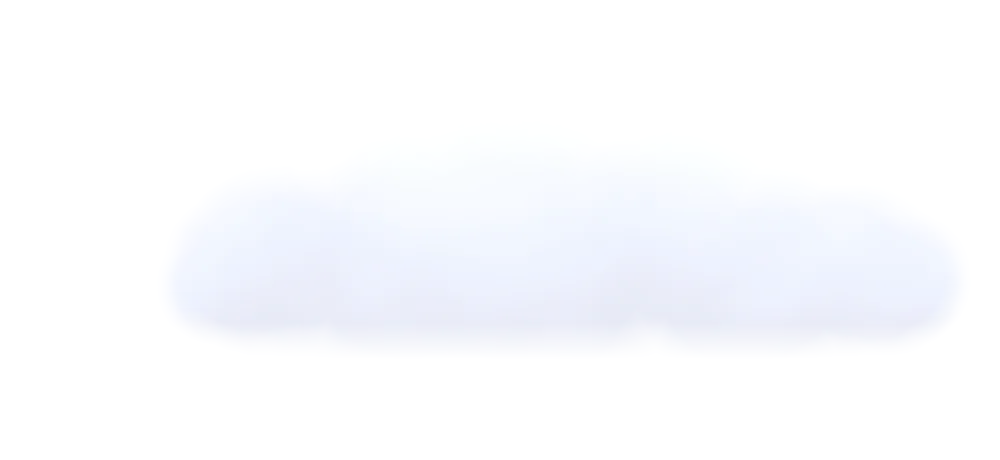
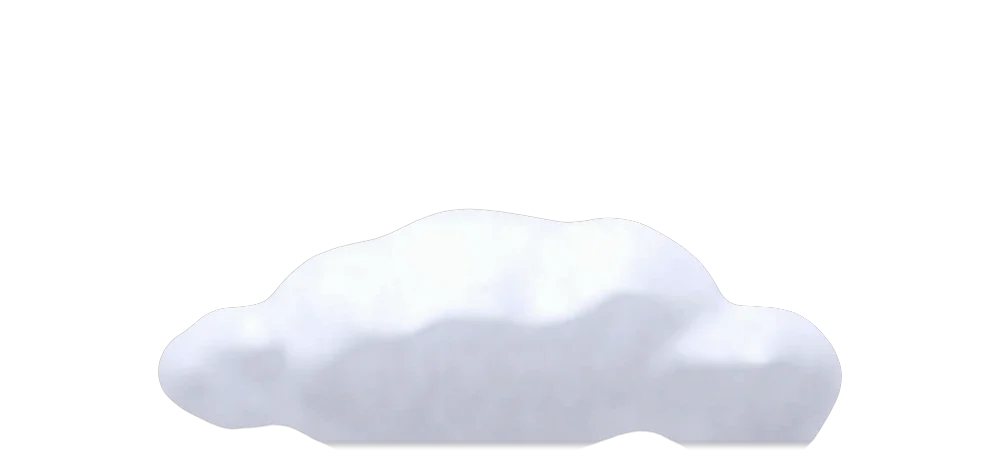
XBASE-Entwurf: Glas-Design, klare Wolken, Slogan mit Auftritt, PC-Layout (Flugzeugfoto, About-Fotos, Referenzkarte), Footer-Button-Fix
Claude-Session: https://claude.ai/code/session_01WS1E1cskWG4amAw1bvVYAm

Changed region(s): [[0.155, 0.6391, 0.868, 0.9739]]

diff --git a/kunden/xbase-aero/seite/index.html b/kunden/xbase-aero/seite/index.html
@@ -14,7 +14,7 @@
   --sans:"Inter",system-ui,-apple-system,"Segoe UI",Roboto,sans-serif;--head:"Outfit","Inter",system-ui,sans-serif;--mono:"Space Mono",ui-monospace,Menlo,Consolas,monospace;--navh:76px}
 *,*::before,*::after{box-sizing:border-box}
 html{scroll-behavior:smooth;scroll-padding-top:calc(var(--navh) + 12px)}
-body{margin:0;background:var(--bg);color:var(--ink);font:400 17px/1.62 var(--sans);-webkit-font-smoothing:antialiased;overflow-x:clip}
+body{margin:0;background:#eef4fc;color:var(--ink);font:400 17px/1.62 var(--sans);-webkit-font-smoothing:antialiased;overflow-x:clip}
 img,svg{display:block;max-width:100%}
 a{color:inherit}
 p{margin:0}
@@ -349,9 +349,11 @@ h1,h2,h3{margin:0;font-family:var(--head);font-weight:600;line-height:1.04;lette
 .foot__cta .hero__cta{margin-top:0}
 .foot__cta .btn--l{background:rgba(255,255,255,.1);border-color:rgba(255,255,255,.25);color:#fff}
 .foot__cta .btn--l:hover{background:rgba(255,255,255,.18)}
-.foot__cta .btn--w{background:#fff;color:var(--ink)}
+.foot__cta .btn--w,.foot__cta .btn--w:hover,.foot__cta .btn--w:focus,.foot__cta .btn--w:active{background:#fff;color:var(--ink)}
+.foot__cta .btn--w:hover{transform:translateY(-2px);box-shadow:0 14px 30px -14px rgba(0,0,0,.6)}
 @media (max-width:960px){
   .about__pics{grid-template-columns:1fr;gap:14px}
+  .about__pics img{height:auto}
   .about__pics img:first-child,.about__pics img:last-child{aspect-ratio:4/3;object-position:50% 50%;margin:0}
 }
 @media (max-width:600px){
@@ -381,6 +383,96 @@ h1,h2,h3{margin:0;font-family:var(--head);font-weight:600;line-height:1.04;lette
   .foot__top{gap:30px}
   .foot__bot{flex-direction:column;gap:8px;padding-bottom:64px;line-height:1.5}
 }
+@media (min-width:961px){#services{padding-top:56px}}
+@media (min-width:1400px){
+  .wrap{width:min(1600px,100% - 120px)}
+  .hero .wrap{gap:24px}
+  .hero{padding-bottom:30px}
+  #services{padding-top:40px}
+  .cards--7{gap:20px}
+  .hero h1{font-size:clamp(66px,4.3vw,92px)}
+  .hero .lead{font-size:clamp(20px,1.2vw,23px);max-width:36em}
+  .hero__tag{font-size:15px;padding:10px 16px 10px 12px}
+  .hero__cta .btn{min-height:60px;padding:0 32px;font-size:17px}
+  .hero__facts{max-width:720px}
+  .hero__facts b{font-size:26px}
+  .plan{max-width:860px;justify-self:center}
+  .chip{font-size:15px;padding:12px 16px}
+}
+
+/* Referenz als eine Karte mit Strecke */
+.refcard{display:grid;grid-template-columns:.85fr 1.15fr;margin-top:48px;background:#fff;border:1px solid var(--line);border-radius:32px;overflow:hidden;box-shadow:0 40px 80px -60px rgba(10,26,51,.5)}
+.refcard__logo{display:grid;place-items:center;padding:clamp(36px,5vw,72px);background:radial-gradient(80% 90% at 30% 20%,rgba(0,184,255,.12),transparent 70%),linear-gradient(160deg,#f7faff,#eaf2fd);border-right:1px solid var(--line)}
+.refcard__logo img{width:min(340px,86%);height:auto}
+.refcard__txt{padding:clamp(32px,4.4vw,64px);display:flex;flex-direction:column;justify-content:center}
+.refcard__txt small{font:400 12px/1.4 var(--mono);letter-spacing:.1em;text-transform:uppercase;color:var(--blue)}
+.refcard__txt p{font:500 clamp(22px,2.1vw,32px)/1.25 var(--head);letter-spacing:-.02em;margin-top:14px;max-width:24ch}
+.route{display:flex;align-items:center;gap:18px;margin-top:34px}
+.route b{font:600 30px/1 var(--head);letter-spacing:-.02em;color:var(--ink)}
+.route i{display:block;font:400 11px/1.3 var(--mono);font-style:normal;letter-spacing:.06em;text-transform:uppercase;color:var(--mut);margin-top:6px}
+.route__l{flex:1;position:relative;height:2px;background:repeating-linear-gradient(90deg,var(--blue) 0 8px,transparent 8px 14px);opacity:.75}
+.route__l svg{position:absolute;top:50%;left:0;width:26px;height:26px;color:var(--blue);transform:translate(-50%,-50%) rotate(90deg);animation:route 6s cubic-bezier(.45,0,.55,1) infinite;background:#fff;border-radius:50%;padding:2px}
+@keyframes route{0%{left:4%}50%{left:96%}50.01%{left:96%;transform:translate(-50%,-50%) rotate(-90deg)}100%{left:4%;transform:translate(-50%,-50%) rotate(-90deg)}}
+@media (max-width:760px){.refcard{grid-template-columns:1fr}.refcard__logo{border-right:0;border-bottom:1px solid var(--line);padding:36px}.route b{font-size:24px}.route i{max-width:12ch}}
+@media (prefers-reduced-motion:reduce){.route__l svg{animation:none;left:50%}}
+
+/* PC: Bildband als Karte, Flugzeug ganz sichtbar */
+@media (min-width:961px){
+  .band{width:min(1240px,100% - 40px);margin-inline:auto;min-height:0;aspect-ratio:2/1;border-radius:32px;box-shadow:0 50px 90px -60px rgba(6,22,50,.7)}
+  .band img{object-position:50% 40%}
+  .band::after{background:linear-gradient(200deg,rgba(6,22,50,0) 55%,rgba(6,22,50,.6))}
+  .band .wrap{width:auto;margin:0;padding:0 clamp(28px,3.4vw,56px) clamp(26px,3vw,48px);display:block;text-align:left}
+  .band p{font-size:clamp(28px,2.6vw,44px);max-width:15ch}
+  .about__pics{display:block;position:relative;padding-bottom:22%}
+  .about__pics img{height:auto}
+  .about__pics img:first-child{width:86%;aspect-ratio:4/3;object-position:50% 50%}
+  .about__pics img:last-child{position:absolute;right:0;bottom:0;width:56%;aspect-ratio:4/3;margin:0;border:6px solid var(--bg);border-radius:26px;box-shadow:0 40px 70px -30px rgba(10,26,51,.6)}
+  .hero{min-height:0;padding-bottom:40px}
+  .sky{-webkit-mask-image:linear-gradient(90deg,rgba(0,0,0,.4),rgba(0,0,0,.4) 42%,#000 62%),linear-gradient(180deg,#000 72%,transparent 98%);mask-image:linear-gradient(90deg,rgba(0,0,0,.4),rgba(0,0,0,.4) 42%,#000 62%),linear-gradient(180deg,#000 72%,transparent 98%);-webkit-mask-composite:source-in;mask-composite:intersect}
+}
+@media (min-width:1400px){.band{width:min(1600px,100% - 120px)}}
+
+/* Glas-Design */
+:root{--glass:linear-gradient(150deg,rgba(255,255,255,.82),rgba(255,255,255,.46));--glass-b:rgba(255,255,255,.85);--glass-s:inset 0 1px 0 rgba(255,255,255,.95),0 1px 2px rgba(10,40,90,.04),0 26px 50px -32px rgba(10,40,90,.38)}
+body::before{content:"";position:fixed;inset:0;z-index:-1;pointer-events:none;background:
+  radial-gradient(38% 32% at 8% 18%,rgba(0,184,255,.20),transparent 70%),
+  radial-gradient(34% 30% at 92% 42%,rgba(10,108,240,.15),transparent 70%),
+  radial-gradient(46% 38% at 38% 100%,rgba(111,208,255,.24),transparent 70%),
+  linear-gradient(180deg,#f1f6fd,#e8f1fc)}
+.card:not(.card--cta),.vals div,.person,.job__main,.job__item,.refcard,.cbox--f,.who span,.tabs{background:var(--glass);border:1px solid var(--glass-b);box-shadow:var(--glass-s);-webkit-backdrop-filter:blur(16px) saturate(160%);backdrop-filter:blur(16px) saturate(160%)}
+.card:not(.card--cta):hover,.job__item:hover{border-color:rgba(10,108,240,.35);box-shadow:inset 0 1px 0 #fff,0 34px 60px -34px rgba(10,60,140,.5)}
+.card__i{background:linear-gradient(140deg,rgba(0,184,255,.18),rgba(11,63,168,.14));box-shadow:inset 0 1px 0 rgba(255,255,255,.8),0 8px 18px -10px rgba(10,108,240,.5)}
+.refcard__logo{background:radial-gradient(80% 90% at 30% 20%,rgba(0,184,255,.14),transparent 70%),rgba(255,255,255,.35);border-right-color:var(--glass-b)}
+.form input,.form select,.form textarea{background:rgba(255,255,255,.6);border:1px solid rgba(10,26,51,.12);box-shadow:inset 0 1px 2px rgba(10,26,51,.06),0 1px 0 rgba(255,255,255,.9)}
+.form input:hover,.form select:hover,.form textarea:hover{border-color:rgba(10,108,240,.35)}
+.form input:focus,.form select:focus,.form textarea:focus{background:#fff;border-color:var(--blue);box-shadow:0 0 0 4px rgba(10,108,240,.14)}
+.seg button{background:rgba(255,255,255,.65);border-color:rgba(10,26,51,.12);box-shadow:inset 0 1px 0 #fff}
+.seg button:hover{border-color:rgba(10,108,240,.4)}
+.seg button[aria-pressed="true"],.tabs button[aria-selected="true"]{background:var(--grad);border-color:transparent;color:#fff;box-shadow:0 10px 24px -12px rgba(10,108,240,.9)}
+.btn--l{background:rgba(255,255,255,.55);border-color:var(--glass-b);box-shadow:inset 0 1px 0 #fff,0 12px 26px -18px rgba(10,40,90,.5);-webkit-backdrop-filter:blur(12px);backdrop-filter:blur(12px)}
+.hero__tag{background:rgba(255,255,255,.6);border-color:var(--glass-b);-webkit-backdrop-filter:blur(12px);backdrop-filter:blur(12px)}
+.avatar{box-shadow:inset 0 1px 0 rgba(255,255,255,.4),0 14px 28px -14px rgba(10,108,240,.8)}
+.cbox--d{background:radial-gradient(70% 60% at 100% 100%,rgba(0,176,255,.28),transparent 70%),linear-gradient(160deg,#0b2147,#061632);border:1px solid rgba(111,208,255,.16);box-shadow:inset 0 1px 0 rgba(255,255,255,.08),0 40px 70px -40px rgba(6,22,50,.8)}
+.stats{background:rgba(255,255,255,.05);border-color:rgba(255,255,255,.14);box-shadow:inset 0 1px 0 rgba(255,255,255,.1);-webkit-backdrop-filter:blur(10px);backdrop-filter:blur(10px)}
+.hero::after{display:none}
+.hero{background:linear-gradient(180deg,#5aaef6 0%,#8fcbfb 36%,#cde9ff 68%,rgba(225,238,252,.6) 88%,rgba(238,244,252,0) 100%)}
+
+/* Slogan mit Auftritt */
+.hero h1 .l1,.hero h1 .l2{display:block;animation:rise 1s cubic-bezier(.2,.8,.2,1) both}
+.hero h1 .l1{background:linear-gradient(100deg,#061632 20%,#0b3fa8 60%,#061632 90%);background-size:220% 100%;-webkit-background-clip:text;background-clip:text;color:transparent;animation:rise 1s cubic-bezier(.2,.8,.2,1) both,sheen 9s 1.6s ease-in-out infinite}
+.hero h1 .l2{animation-delay:.18s;filter:drop-shadow(0 10px 28px rgba(10,108,240,.35))}
+@keyframes rise{from{opacity:0;transform:translateY(.45em);filter:blur(10px)}to{opacity:1;transform:none}}
+.hero h1 .l2 .g,.xp b{background-image:linear-gradient(100deg,#00b8ff 0%,#0a6cf0 30%,#3fc4ff 45%,#0a6cf0 60%,#0b3fa8 100%);background-size:250% 100%;animation:sheen 6s 1.2s ease-in-out infinite}
+@keyframes sheen{0%,100%{background-position:100% 0}50%{background-position:0 0}}
+.xp b{text-shadow:none;filter:drop-shadow(0 0 18px rgba(0,184,255,.55))}
+.xp__fly{position:absolute;right:-.5em;bottom:.02em;width:.42em;height:.42em;color:#0a6cf0;opacity:0;transform:translate(-40%,30%) rotate(70deg) scale(.6);animation:flyin .9s 1.7s cubic-bezier(.2,.8,.2,1) forwards,bob 3.2s 2.6s ease-in-out infinite}
+.xp__fly svg{width:100%;height:100%;filter:drop-shadow(0 4px 8px rgba(10,108,240,.5))}
+@keyframes flyin{to{opacity:1;transform:translate(0,0) rotate(70deg) scale(1)}}
+@keyframes bob{0%,100%{translate:0 0}50%{translate:0 -.06em}}
+.hero h1 .l2{white-space:nowrap}
+.sky img{opacity:.96!important;filter:none!important}
+@media (max-width:960px){.sky{-webkit-mask-image:linear-gradient(180deg,rgba(0,0,0,.45),rgba(0,0,0,.45) 55%,#000 70%,#000 88%,transparent 99%);mask-image:linear-gradient(180deg,rgba(0,0,0,.45),rgba(0,0,0,.45) 55%,#000 70%,#000 88%,transparent 99%)}}
+@media (prefers-reduced-motion:reduce){.hero h1 .l1,.hero h1 .l2{animation:none}.xp__fly{opacity:1;transform:rotate(70deg)}}
 </style>
 </head>
 <body>
@@ -404,16 +496,16 @@ h1,h2,h3{margin:0;font-family:var(--head);font-weight:600;line-height:1.04;lette
 <main id="top">
 <section class="hero">
   <div class="sky" aria-hidden="true">
-    <img class="c1" src="assets/img/wolke-1.webp" width="1400" height="560" alt="">
-    <img class="c4" src="assets/img/wolke-2.webp" width="1000" height="460" alt="">
-    <img class="c2" src="assets/img/wolke-2.webp" width="1000" height="460" alt="">
-    <img class="c3" src="assets/img/wolke-3.webp" width="1600" height="420" alt="">
-    <img class="c5" src="assets/img/wolke-1.webp" width="1400" height="560" alt="">
+    <img class="c1" src="assets/img/wolke-1.webp?v=2" width="1400" height="560" alt="">
+    <img class="c4" src="assets/img/wolke-2.webp?v=2" width="1000" height="460" alt="">
+    <img class="c2" src="assets/img/wolke-2.webp?v=2" width="1000" height="460" alt="">
+    <img class="c3" src="assets/img/wolke-3.webp?v=2" width="1600" height="420" alt="">
+    <img class="c5" src="assets/img/wolke-1.webp?v=2" width="1400" height="560" alt="">
   </div>
   <div class="wrap">
     <div>
       <span class="hero__tag"><i></i>Based at Vienna International Airport</span>
-      <h1>Best Aviation Services <span class="l2"><span class="g">Delivered by</span> <span class="xp"><b>X</b><span class="g">perts.</span><svg viewBox="0 0 300 24" preserveAspectRatio="none" aria-hidden="true"><path pathLength="1" d="M4 18 C 90 4, 200 2, 296 10"/></svg></span></span></h1>
+      <h1><span class="l1">Best Aviation Services</span> <span class="l2"><span class="g">Delivered by</span> <span class="xp"><b>X</b><span class="g">perts.</span><svg viewBox="0 0 300 24" preserveAspectRatio="none" aria-hidden="true"><path pathLength="1" d="M4 18 C 90 4, 200 2, 296 10"/></svg><i class="xp__fly" aria-hidden="true"><svg viewBox="0 0 24 24" fill="currentColor"><path d="M21 16v-2l-8-5V3.5a1.5 1.5 0 0 0-3 0V9l-8 5v2l8-2.5V19l-2 1.5V22l3.5-1 3.5 1v-1.5L13 19v-5.5z"/></svg></i></span></span></h1>
       <p class="lead">XBASE Aero supports airlines, CAMOs, maintenance organisations and operators with engineering, compliance, materials and qualified aviation professionals. One partner, one point of contact.</p>
       <div class="hero__cta">
         <a class="btn btn--p" href="#contact">Get in touch <svg viewBox="0 0 24 24" fill="none" stroke="currentColor" stroke-width="2.2" stroke-linecap="round" stroke-linejoin="round"><path d="M5 12h14M13 6l6 6-6 6"/></svg></a>
@@ -566,7 +658,7 @@ h1,h2,h3{margin:0;font-family:var(--head);font-weight:600;line-height:1.04;lette
         </div>
       </div>
       <div class="about__pics rv">
-        <img src="assets/img/cockpit-800.webp" srcset="assets/img/cockpit-800.webp 800w, assets/img/cockpit.webp 1600w" sizes="(max-width:960px) 100vw, 28vw" width="800" height="600" alt="Cockpit overhead panel" loading="lazy">
+        <img src="assets/img/cockpit-800.webp" srcset="assets/img/cockpit-800.webp 800w, assets/img/cockpit.webp 1600w" sizes="(max-width:960px) 100vw, 40vw" width="800" height="600" alt="Cockpit overhead panel" loading="lazy">
         <img src="assets/img/triebwerk-800.webp" srcset="assets/img/triebwerk-800.webp 800w, assets/img/triebwerk.webp 1600w" sizes="(max-width:960px) 100vw, 22vw" width="800" height="600" alt="Aircraft engine on the apron" loading="lazy">
       </div>
     </div>
@@ -586,9 +678,13 @@ h1,h2,h3{margin:0;font-family:var(--head);font-weight:600;line-height:1.04;lette
   <div class="wrap">
     <span class="k rv">References</span>
     <h2 class="h2 rv">Trusted <span class="g">in the industry.</span></h2>
-    <div class="refs">
-      <div class="ref rv"><img src="assets/img/peoples-logo.webp" width="700" height="302" alt="People's Airline"></div>
-      <div class="ref__txt rv"><q>People's, the airline connecting Vienna and St. Gallen-Altenrhein, works with XBASE Aero.</q><small>Reference customer · Airline</small></div>
+    <div class="refcard rv">
+      <div class="refcard__logo"><img src="assets/img/peoples-logo.webp" width="700" height="302" alt="People's Airline"></div>
+      <div class="refcard__txt">
+        <small>Reference customer · Airline</small>
+        <p>People's, the airline connecting Vienna and St. Gallen-Altenrhein, works with XBASE Aero.</p>
+        <div class="route" aria-hidden="true"><b>VIE<i>Vienna</i></b><span class="route__l"><svg viewBox="0 0 24 24" fill="currentColor"><path d="M21 16v-2l-8-5V3.5a1.5 1.5 0 0 0-3 0V9l-8 5v2l8-2.5V19l-2 1.5V22l3.5-1 3.5 1v-1.5L13 19v-5.5z"/></svg></span><b>ACH<i>St. Gallen-Altenrhein</i></b></div>
+      </div>
     </div>
   </div>
 </section>

diff --git a/webdesign/demo/xbase/index.php b/webdesign/demo/xbase/index.php
@@ -14,7 +14,7 @@
   --sans:"Inter",system-ui,-apple-system,"Segoe UI",Roboto,sans-serif;--head:"Outfit","Inter",system-ui,sans-serif;--mono:"Space Mono",ui-monospace,Menlo,Consolas,monospace;--navh:76px}
 *,*::before,*::after{box-sizing:border-box}
 html{scroll-behavior:smooth;scroll-padding-top:calc(var(--navh) + 12px)}
-body{margin:0;background:var(--bg);color:var(--ink);font:400 17px/1.62 var(--sans);-webkit-font-smoothing:antialiased;overflow-x:clip}
+body{margin:0;background:#eef4fc;color:var(--ink);font:400 17px/1.62 var(--sans);-webkit-font-smoothing:antialiased;overflow-x:clip}
 img,svg{display:block;max-width:100%}
 a{color:inherit}
 p{margin:0}
@@ -349,9 +349,11 @@ h1,h2,h3{margin:0;font-family:var(--head);font-weight:600;line-height:1.04;lette
 .foot__cta .hero__cta{margin-top:0}
 .foot__cta .btn--l{background:rgba(255,255,255,.1);border-color:rgba(255,255,255,.25);color:#fff}
 .foot__cta .btn--l:hover{background:rgba(255,255,255,.18)}
-.foot__cta .btn--w{background:#fff;color:var(--ink)}
+.foot__cta .btn--w,.foot__cta .btn--w:hover,.foot__cta .btn--w:focus,.foot__cta .btn--w:active{background:#fff;color:var(--ink)}
+.foot__cta .btn--w:hover{transform:translateY(-2px);box-shadow:0 14px 30px -14px rgba(0,0,0,.6)}
 @media (max-width:960px){
   .about__pics{grid-template-columns:1fr;gap:14px}
+  .about__pics img{height:auto}
   .about__pics img:first-child,.about__pics img:last-child{aspect-ratio:4/3;object-position:50% 50%;margin:0}
 }
 @media (max-width:600px){
@@ -381,6 +383,96 @@ h1,h2,h3{margin:0;font-family:var(--head);font-weight:600;line-height:1.04;lette
   .foot__top{gap:30px}
   .foot__bot{flex-direction:column;gap:8px;padding-bottom:64px;line-height:1.5}
 }
+@media (min-width:961px){#services{padding-top:56px}}
+@media (min-width:1400px){
+  .wrap{width:min(1600px,100% - 120px)}
+  .hero .wrap{gap:24px}
+  .hero{padding-bottom:30px}
+  #services{padding-top:40px}
+  .cards--7{gap:20px}
+  .hero h1{font-size:clamp(66px,4.3vw,92px)}
+  .hero .lead{font-size:clamp(20px,1.2vw,23px);max-width:36em}
+  .hero__tag{font-size:15px;padding:10px 16px 10px 12px}
+  .hero__cta .btn{min-height:60px;padding:0 32px;font-size:17px}
+  .hero__facts{max-width:720px}
+  .hero__facts b{font-size:26px}
+  .plan{max-width:860px;justify-self:center}
+  .chip{font-size:15px;padding:12px 16px}
+}
+
+/* Referenz als eine Karte mit Strecke */
+.refcard{display:grid;grid-template-columns:.85fr 1.15fr;margin-top:48px;background:#fff;border:1px solid var(--line);border-radius:32px;overflow:hidden;box-shadow:0 40px 80px -60px rgba(10,26,51,.5)}
+.refcard__logo{display:grid;place-items:center;padding:clamp(36px,5vw,72px);background:radial-gradient(80% 90% at 30% 20%,rgba(0,184,255,.12),transparent 70%),linear-gradient(160deg,#f7faff,#eaf2fd);border-right:1px solid var(--line)}
+.refcard__logo img{width:min(340px,86%);height:auto}
+.refcard__txt{padding:clamp(32px,4.4vw,64px);display:flex;flex-direction:column;justify-content:center}
+.refcard__txt small{font:400 12px/1.4 var(--mono);letter-spacing:.1em;text-transform:uppercase;color:var(--blue)}
+.refcard__txt p{font:500 clamp(22px,2.1vw,32px)/1.25 var(--head);letter-spacing:-.02em;margin-top:14px;max-width:24ch}
+.route{display:flex;align-items:center;gap:18px;margin-top:34px}
+.route b{font:600 30px/1 var(--head);letter-spacing:-.02em;color:var(--ink)}
+.route i{display:block;font:400 11px/1.3 var(--mono);font-style:normal;letter-spacing:.06em;text-transform:uppercase;color:var(--mut);margin-top:6px}
+.route__l{flex:1;position:relative;height:2px;background:repeating-linear-gradient(90deg,var(--blue) 0 8px,transparent 8px 14px);opacity:.75}
+.route__l svg{position:absolute;top:50%;left:0;width:26px;height:26px;color:var(--blue);transform:translate(-50%,-50%) rotate(90deg);animation:route 6s cubic-bezier(.45,0,.55,1) infinite;background:#fff;border-radius:50%;padding:2px}
+@keyframes route{0%{left:4%}50%{left:96%}50.01%{left:96%;transform:translate(-50%,-50%) rotate(-90deg)}100%{left:4%;transform:translate(-50%,-50%) rotate(-90deg)}}
+@media (max-width:760px){.refcard{grid-template-columns:1fr}.refcard__logo{border-right:0;border-bottom:1px solid var(--line);padding:36px}.route b{font-size:24px}.route i{max-width:12ch}}
+@media (prefers-reduced-motion:reduce){.route__l svg{animation:none;left:50%}}
+
+/* PC: Bildband als Karte, Flugzeug ganz sichtbar */
+@media (min-width:961px){
+  .band{width:min(1240px,100% - 40px);margin-inline:auto;min-height:0;aspect-ratio:2/1;border-radius:32px;box-shadow:0 50px 90px -60px rgba(6,22,50,.7)}
+  .band img{object-position:50% 40%}
+  .band::after{background:linear-gradient(200deg,rgba(6,22,50,0) 55%,rgba(6,22,50,.6))}
+  .band .wrap{width:auto;margin:0;padding:0 clamp(28px,3.4vw,56px) clamp(26px,3vw,48px);display:block;text-align:left}
+  .band p{font-size:clamp(28px,2.6vw,44px);max-width:15ch}
+  .about__pics{display:block;position:relative;padding-bottom:22%}
+  .about__pics img{height:auto}
+  .about__pics img:first-child{width:86%;aspect-ratio:4/3;object-position:50% 50%}
+  .about__pics img:last-child{position:absolute;right:0;bottom:0;width:56%;aspect-ratio:4/3;margin:0;border:6px solid var(--bg);border-radius:26px;box-shadow:0 40px 70px -30px rgba(10,26,51,.6)}
+  .hero{min-height:0;padding-bottom:40px}
+  .sky{-webkit-mask-image:linear-gradient(90deg,rgba(0,0,0,.4),rgba(0,0,0,.4) 42%,#000 62%),linear-gradient(180deg,#000 72%,transparent 98%);mask-image:linear-gradient(90deg,rgba(0,0,0,.4),rgba(0,0,0,.4) 42%,#000 62%),linear-gradient(180deg,#000 72%,transparent 98%);-webkit-mask-composite:source-in;mask-composite:intersect}
+}
+@media (min-width:1400px){.band{width:min(1600px,100% - 120px)}}
+
+/* Glas-Design */
+:root{--glass:linear-gradient(150deg,rgba(255,255,255,.82),rgba(255,255,255,.46));--glass-b:rgba(255,255,255,.85);--glass-s:inset 0 1px 0 rgba(255,255,255,.95),0 1px 2px rgba(10,40,90,.04),0 26px 50px -32px rgba(10,40,90,.38)}
+body::before{content:"";position:fixed;inset:0;z-index:-1;pointer-events:none;background:
+  radial-gradient(38% 32% at 8% 18%,rgba(0,184,255,.20),transparent 70%),
+  radial-gradient(34% 30% at 92% 42%,rgba(10,108,240,.15),transparent 70%),
+  radial-gradient(46% 38% at 38% 100%,rgba(111,208,255,.24),transparent 70%),
+  linear-gradient(180deg,#f1f6fd,#e8f1fc)}
+.card:not(.card--cta),.vals div,.person,.job__main,.job__item,.refcard,.cbox--f,.who span,.tabs{background:var(--glass);border:1px solid var(--glass-b);box-shadow:var(--glass-s);-webkit-backdrop-filter:blur(16px) saturate(160%);backdrop-filter:blur(16px) saturate(160%)}
+.card:not(.card--cta):hover,.job__item:hover{border-color:rgba(10,108,240,.35);box-shadow:inset 0 1px 0 #fff,0 34px 60px -34px rgba(10,60,140,.5)}
+.card__i{background:linear-gradient(140deg,rgba(0,184,255,.18),rgba(11,63,168,.14));box-shadow:inset 0 1px 0 rgba(255,255,255,.8),0 8px 18px -10px rgba(10,108,240,.5)}
+.refcard__logo{background:radial-gradient(80% 90% at 30% 20%,rgba(0,184,255,.14),transparent 70%),rgba(255,255,255,.35);border-right-color:var(--glass-b)}
+.form input,.form select,.form textarea{background:rgba(255,255,255,.6);border:1px solid rgba(10,26,51,.12);box-shadow:inset 0 1px 2px rgba(10,26,51,.06),0 1px 0 rgba(255,255,255,.9)}
+.form input:hover,.form select:hover,.form textarea:hover{border-color:rgba(10,108,240,.35)}
+.form input:focus,.form select:focus,.form textarea:focus{background:#fff;border-color:var(--blue);box-shadow:0 0 0 4px rgba(10,108,240,.14)}
+.seg button{background:rgba(255,255,255,.65);border-color:rgba(10,26,51,.12);box-shadow:inset 0 1px 0 #fff}
+.seg button:hover{border-color:rgba(10,108,240,.4)}
+.seg button[aria-pressed="true"],.tabs button[aria-selected="true"]{background:var(--grad);border-color:transparent;color:#fff;box-shadow:0 10px 24px -12px rgba(10,108,240,.9)}
+.btn--l{background:rgba(255,255,255,.55);border-color:var(--glass-b);box-shadow:inset 0 1px 0 #fff,0 12px 26px -18px rgba(10,40,90,.5);-webkit-backdrop-filter:blur(12px);backdrop-filter:blur(12px)}
+.hero__tag{background:rgba(255,255,255,.6);border-color:var(--glass-b);-webkit-backdrop-filter:blur(12px);backdrop-filter:blur(12px)}
+.avatar{box-shadow:inset 0 1px 0 rgba(255,255,255,.4),0 14px 28px -14px rgba(10,108,240,.8)}
+.cbox--d{background:radial-gradient(70% 60% at 100% 100%,rgba(0,176,255,.28),transparent 70%),linear-gradient(160deg,#0b2147,#061632);border:1px solid rgba(111,208,255,.16);box-shadow:inset 0 1px 0 rgba(255,255,255,.08),0 40px 70px -40px rgba(6,22,50,.8)}
+.stats{background:rgba(255,255,255,.05);border-color:rgba(255,255,255,.14);box-shadow:inset 0 1px 0 rgba(255,255,255,.1);-webkit-backdrop-filter:blur(10px);backdrop-filter:blur(10px)}
+.hero::after{display:none}
+.hero{background:linear-gradient(180deg,#5aaef6 0%,#8fcbfb 36%,#cde9ff 68%,rgba(225,238,252,.6) 88%,rgba(238,244,252,0) 100%)}
+
+/* Slogan mit Auftritt */
+.hero h1 .l1,.hero h1 .l2{display:block;animation:rise 1s cubic-bezier(.2,.8,.2,1) both}
+.hero h1 .l1{background:linear-gradient(100deg,#061632 20%,#0b3fa8 60%,#061632 90%);background-size:220% 100%;-webkit-background-clip:text;background-clip:text;color:transparent;animation:rise 1s cubic-bezier(.2,.8,.2,1) both,sheen 9s 1.6s ease-in-out infinite}
+.hero h1 .l2{animation-delay:.18s;filter:drop-shadow(0 10px 28px rgba(10,108,240,.35))}
+@keyframes rise{from{opacity:0;transform:translateY(.45em);filter:blur(10px)}to{opacity:1;transform:none}}
+.hero h1 .l2 .g,.xp b{background-image:linear-gradient(100deg,#00b8ff 0%,#0a6cf0 30%,#3fc4ff 45%,#0a6cf0 60%,#0b3fa8 100%);background-size:250% 100%;animation:sheen 6s 1.2s ease-in-out infinite}
+@keyframes sheen{0%,100%{background-position:100% 0}50%{background-position:0 0}}
+.xp b{text-shadow:none;filter:drop-shadow(0 0 18px rgba(0,184,255,.55))}
+.xp__fly{position:absolute;right:-.5em;bottom:.02em;width:.42em;height:.42em;color:#0a6cf0;opacity:0;transform:translate(-40%,30%) rotate(70deg) scale(.6);animation:flyin .9s 1.7s cubic-bezier(.2,.8,.2,1) forwards,bob 3.2s 2.6s ease-in-out infinite}
+.xp__fly svg{width:100%;height:100%;filter:drop-shadow(0 4px 8px rgba(10,108,240,.5))}
+@keyframes flyin{to{opacity:1;transform:translate(0,0) rotate(70deg) scale(1)}}
+@keyframes bob{0%,100%{translate:0 0}50%{translate:0 -.06em}}
+.hero h1 .l2{white-space:nowrap}
+.sky img{opacity:.96!important;filter:none!important}
+@media (max-width:960px){.sky{-webkit-mask-image:linear-gradient(180deg,rgba(0,0,0,.45),rgba(0,0,0,.45) 55%,#000 70%,#000 88%,transparent 99%);mask-image:linear-gradient(180deg,rgba(0,0,0,.45),rgba(0,0,0,.45) 55%,#000 70%,#000 88%,transparent 99%)}}
+@media (prefers-reduced-motion:reduce){.hero h1 .l1,.hero h1 .l2{animation:none}.xp__fly{opacity:1;transform:rotate(70deg)}}
 </style>
 </head>
 <body>
@@ -404,16 +496,16 @@ h1,h2,h3{margin:0;font-family:var(--head);font-weight:600;line-height:1.04;lette
 <main id="top">
 <section class="hero">
   <div class="sky" aria-hidden="true">
-    <img class="c1" src="assets/img/wolke-1.webp" width="1400" height="560" alt="">
-    <img class="c4" src="assets/img/wolke-2.webp" width="1000" height="460" alt="">
-    <img class="c2" src="assets/img/wolke-2.webp" width="1000" height="460" alt="">
-    <img class="c3" src="assets/img/wolke-3.webp" width="1600" height="420" alt="">
-    <img class="c5" src="assets/img/wolke-1.webp" width="1400" height="560" alt="">
+    <img class="c1" src="assets/img/wolke-1.webp?v=2" width="1400" height="560" alt="">
+    <img class="c4" src="assets/img/wolke-2.webp?v=2" width="1000" height="460" alt="">
+    <img class="c2" src="assets/img/wolke-2.webp?v=2" width="1000" height="460" alt="">
+    <img class="c3" src="assets/img/wolke-3.webp?v=2" width="1600" height="420" alt="">
+    <img class="c5" src="assets/img/wolke-1.webp?v=2" width="1400" height="560" alt="">
   </div>
   <div class="wrap">
     <div>
       <span class="hero__tag"><i></i>Based at Vienna International Airport</span>
-      <h1>Best Aviation Services <span class="l2"><span class="g">Delivered by</span> <span class="xp"><b>X</b><span class="g">perts.</span><svg viewBox="0 0 300 24" preserveAspectRatio="none" aria-hidden="true"><path pathLength="1" d="M4 18 C 90 4, 200 2, 296 10"/></svg></span></span></h1>
+      <h1><span class="l1">Best Aviation Services</span> <span class="l2"><span class="g">Delivered by</span> <span class="xp"><b>X</b><span class="g">perts.</span><svg viewBox="0 0 300 24" preserveAspectRatio="none" aria-hidden="true"><path pathLength="1" d="M4 18 C 90 4, 200 2, 296 10"/></svg><i class="xp__fly" aria-hidden="true"><svg viewBox="0 0 24 24" fill="currentColor"><path d="M21 16v-2l-8-5V3.5a1.5 1.5 0 0 0-3 0V9l-8 5v2l8-2.5V19l-2 1.5V22l3.5-1 3.5 1v-1.5L13 19v-5.5z"/></svg></i></span></span></h1>
       <p class="lead">XBASE Aero supports airlines, CAMOs, maintenance organisations and operators with engineering, compliance, materials and qualified aviation professionals. One partner, one point of contact.</p>
       <div class="hero__cta">
         <a class="btn btn--p" href="#contact">Get in touch <svg viewBox="0 0 24 24" fill="none" stroke="currentColor" stroke-width="2.2" stroke-linecap="round" stroke-linejoin="round"><path d="M5 12h14M13 6l6 6-6 6"/></svg></a>
@@ -566,7 +658,7 @@ h1,h2,h3{margin:0;font-family:var(--head);font-weight:600;line-height:1.04;lette
         </div>
       </div>
       <div class="about__pics rv">
-        <img src="assets/img/cockpit-800.webp" srcset="assets/img/cockpit-800.webp 800w, assets/img/cockpit.webp 1600w" sizes="(max-width:960px) 100vw, 28vw" width="800" height="600" alt="Cockpit overhead panel" loading="lazy">
+        <img src="assets/img/cockpit-800.webp" srcset="assets/img/cockpit-800.webp 800w, assets/img/cockpit.webp 1600w" sizes="(max-width:960px) 100vw, 40vw" width="800" height="600" alt="Cockpit overhead panel" loading="lazy">
         <img src="assets/img/triebwerk-800.webp" srcset="assets/img/triebwerk-800.webp 800w, assets/img/triebwerk.webp 1600w" sizes="(max-width:960px) 100vw, 22vw" width="800" height="600" alt="Aircraft engine on the apron" loading="lazy">
       </div>
     </div>
@@ -586,9 +678,13 @@ h1,h2,h3{margin:0;font-family:var(--head);font-weight:600;line-height:1.04;lette
   <div class="wrap">
     <span class="k rv">References</span>
     <h2 class="h2 rv">Trusted <span class="g">in the industry.</span></h2>
-    <div class="refs">
-      <div class="ref rv"><img src="assets/img/peoples-logo.webp" width="700" height="302" alt="People's Airline"></div>
-      <div class="ref__txt rv"><q>People's, the airline connecting Vienna and St. Gallen-Altenrhein, works with XBASE Aero.</q><small>Reference customer · Airline</small></div>
+    <div class="refcard rv">
+      <div class="refcard__logo"><img src="assets/img/peoples-logo.webp" width="700" height="302" alt="People's Airline"></div>
+      <div class="refcard__txt">
+        <small>Reference customer · Airline</small>
+        <p>People's, the airline connecting Vienna and St. Gallen-Altenrhein, works with XBASE Aero.</p>
+        <div class="route" aria-hidden="true"><b>VIE<i>Vienna</i></b><span class="route__l"><svg viewBox="0 0 24 24" fill="currentColor"><path d="M21 16v-2l-8-5V3.5a1.5 1.5 0 0 0-3 0V9l-8 5v2l8-2.5V19l-2 1.5V22l3.5-1 3.5 1v-1.5L13 19v-5.5z"/></svg></span><b>ACH<i>St. Gallen-Altenrhein</i></b></div>
+      </div>
     </div>
   </div>
 </section>
